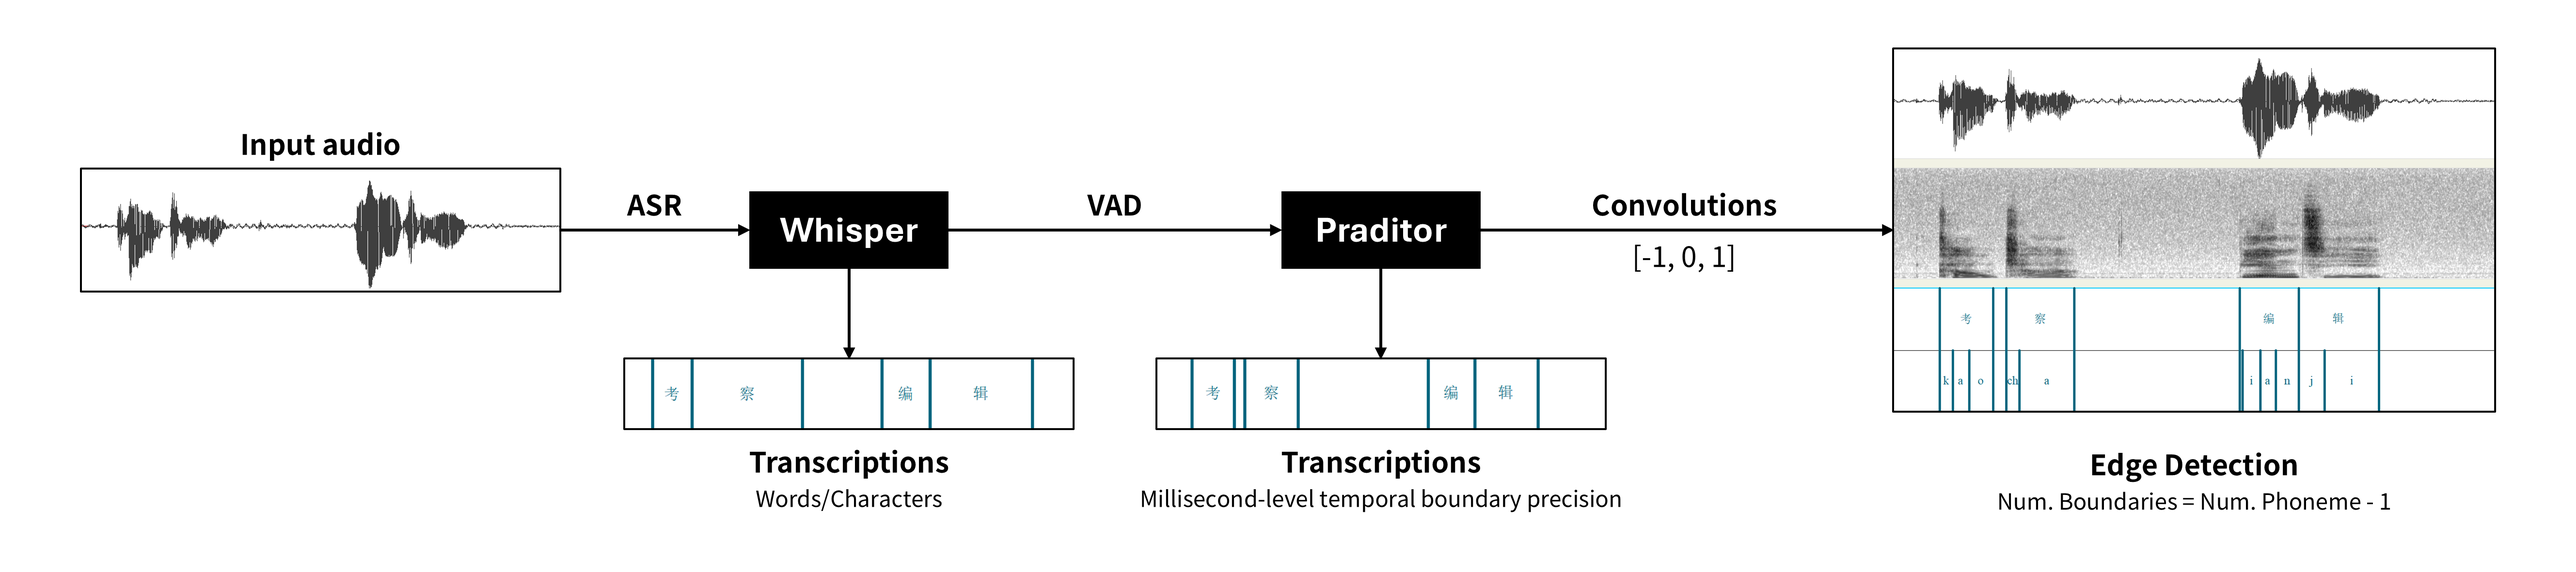
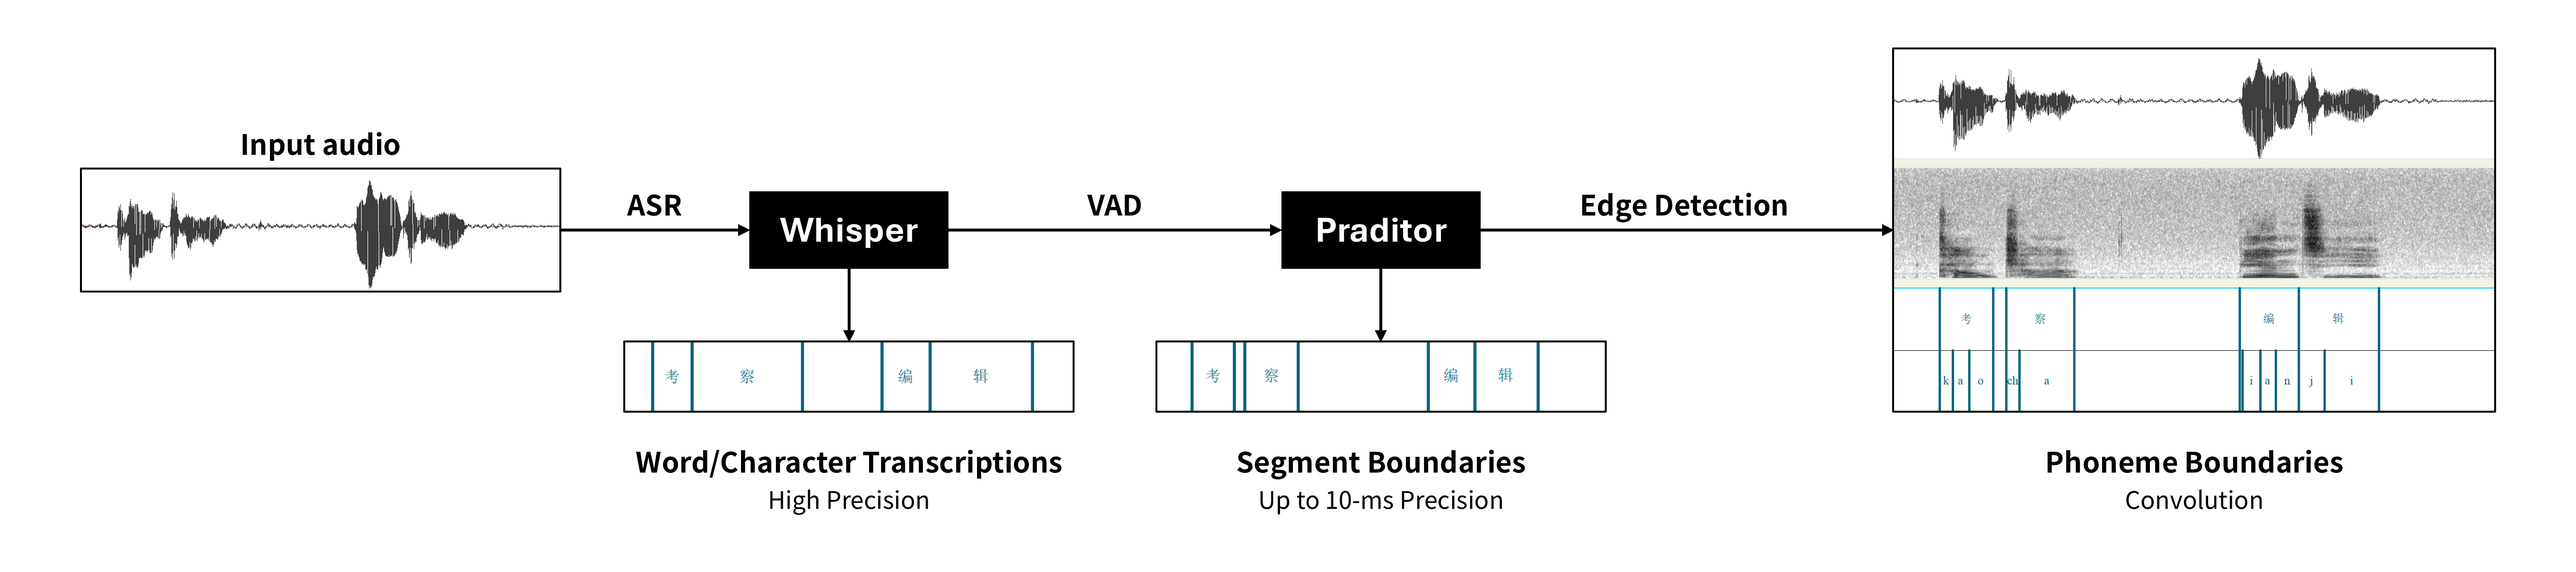
docs: 更新README和机制图
简化README内容，移除不必要的徽章和格式，添加Python版本和许可证徽章。同时更新机制图文件。

diff --git a/README.md b/README.md
@@ -1,20 +1,6 @@
-<h1 align="center">Praasper</h1>
-<p align="center">
-
-  <!-- <a href="https://github.com/m-bain/whisperX/stargazers">
-    <img src="https://img.shields.io/github/stars/m-bain/whisperX.svg?colorA=orange&colorB=orange&logo=github"
-         alt="GitHub stars">
-  </a> -->
-  <!-- <a href="https://github.com/m-bain/whisperX/issues">
-        <img src="https://img.shields.io/github/issues/m-bain/whisperx.svg"
-             alt="GitHub issues">
-  </a> -->
-  <!-- <a href="https://github.com/m-bain/whisperX/blob/master/LICENSE">
-        <img src="https://img.shields.io/github/license/m-bain/whisperX.svg"
-             alt="GitHub license">
-  </a>
-    -->
-</p>
+# Praasper
+![Python](https://img.shields.io/badge/python-3.10-blue.svg)
+![GitHub License](https://img.shields.io/github/license/Paradeluxe/Praasper)
 
 
 **Praasper** is an Automatic Speech Recognition (ASR) application designed help researchers transribe audio files to both word- and phoneme-level text.
